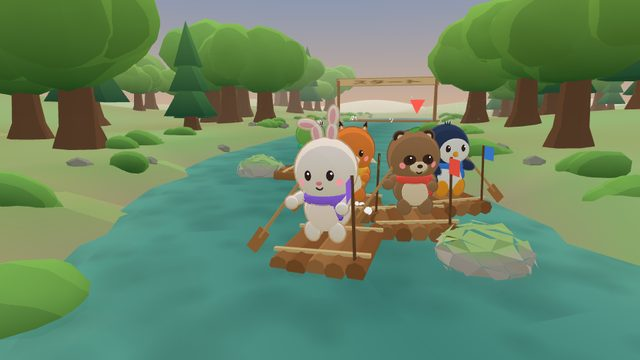
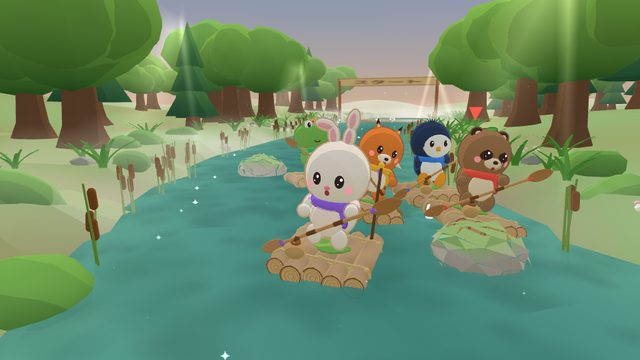
いかだレース: ゴールと盛り上げを作りこむ
- 水門の扉: いちばん前の子が近づくと、下流へ ぎいっと開く
- ビーバー: ダムの上で応援。だれかがゴールすると、とびはねて しっぽで水をたたく
- 紙ふぶき: 1位と自分がゴールしたとき、門の上から
- 順位の入れかわりを知らせる(「○○を ぬいた!」「○○に ぬかれた…」)
- のこり 45m で「ラストスパート!」と太鼓
- 自分がゴールしたあと、カメラが前へまわりこんで よろこぶ顔を見る
- 森の鳥の声
- 「おなじがわ!」は4回つづいたときだけ(曲がるときに わざと使うので)
- サムネイルを新しい いかだで撮りなおす

Claude-Session: https://claude.ai/code/session_01Cisc6eBGskeR7WZHkdup4y

diff --git a/src/games/ikada/game.js b/src/games/ikada/game.js
@@ -12,7 +12,7 @@ import { CHARACTERS, PLAYER_COLORS } from '../../characters.js';
 import { createModel, preload, toonGradient, toonMaterial } from '../../runtime/models.js';
 import { seedFrom } from '../../rng.js';
 import { RULES, STEP, createGame, ranking, step } from './rules.js';
-import { FALLS, LENGTH, LOGS, LOG_R, TUNNEL, WHIRLS, currentAt, logX } from './course.js';
+import { FALLS, LENGTH, LOGS, LOG_R, POND_END, TUNNEL, WHIRLS, currentAt, logX } from './course.js';
 import { PERSONALITIES, cpuInput, createCpu } from './cpu.js';
 import { SEATS, buildStage, coursePoint, courseHeading, seatPoint } from './stage.js';
 import { PADDLE_TIP, makePaddle, makeRaft, wakeTexture } from './raft.js';
@@ -86,6 +86,13 @@ export async function createIkada({ renderer, settings, getAudio, onExit }) {
     beep: (hi) => voice({ type: 'square', pts: [[0, hi ? 1046 : 523]], len: hi ? 0.4 : 0.15, gain: 0.06 }),
     fanfare: () => [784, 988, 1175, 1568].forEach((f, i) => voice({ type: 'triangle', pts: [[0, f]], len: 0.3 + i * 0.1, gain: 0.1, at: i * 0.13 })),
     finish: () => [659, 784].forEach((f, i) => voice({ type: 'triangle', pts: [[0, f]], len: 0.35, gain: 0.07, at: i * 0.16 })),
+    // ラストスパート: 太鼓
+    drums: () => { for (let i = 0; i < 8; i++) { voice({ type: 'sine', pts: [[0, i % 2 ? 110 : 90], [0.1, 55]], len: 0.16, gain: 0.12, at: i * 0.12 }); } voice({ type: 'triangle', pts: [[0, 523]], len: 0.3, gain: 0.06, at: 0.96 }); voice({ type: 'triangle', pts: [[0, 784]], len: 0.5, gain: 0.07, at: 1.08 }); },
+    pass: () => [880, 1175].forEach((f, i) => voice({ type: 'triangle', pts: [[0, f]], len: 0.14, gain: 0.06, at: i * 0.07 })),
+    passed: () => [440, 330].forEach((f, i) => voice({ type: 'triangle', pts: [[0, f]], len: 0.16, gain: 0.05, at: i * 0.09 })),
+    creak: () => { voice({ type: 'sawtooth', pts: [[0, 180], [0.6, 120]], len: 0.7, gain: 0.025 }); voice({ type: 'sawtooth', pts: [[0, 240], [0.5, 170]], len: 0.6, gain: 0.015, at: 0.1 }); },
+    slap: () => { hiss({ type: 'lowpass', f0: 2000, f1: 500, len: 0.25, gain: 0.08 }); voice({ type: 'sine', pts: [[0, 200], [0.08, 90]], len: 0.12, gain: 0.08 }); },
+    bird: () => { const f = 2300 + Math.random() * 1000; const n = 2 + Math.floor(Math.random() * 3); for (let i = 0; i < n; i++) voice({ type: 'sine', pts: [[0, f], [0.07, f * 1.25]], len: 0.09, gain: 0.016, at: i * 0.13 }); },
     cheer: (g = 0.05) => { for (let i = 0; i < 5; i++) hiss({ f0: 700 + i * 180, f1: 900 + i * 150, q: 4, len: 1.3, gain: g, at: i * 0.05, attack: 0.15 }); },
   };
   // 川の音: ずっと流れている(急流で大きく)
@@ -150,6 +157,120 @@ export async function createIkada({ renderer, settings, getAudio, onExit }) {
     scene.add(g);
     return { lg, g };
   });
+
+  // ── ビーバー: ダムの上で応援する2ひき。ゴールした子がいると、とびはねて しっぽで水をたたく ──────
+  function makeBeaver() {
+    const g = new THREE.Group();
+    const fur = toonMaterial(0x8a5a32), light = toonMaterial(0xc89a62), dark = toonMaterial(0x3a2414);
+    const body = new THREE.Mesh(new THREE.SphereGeometry(0.42, 14, 10), fur);
+    body.scale.set(1, 1.2, 0.9);
+    body.position.y = 0.5;
+    const belly = new THREE.Mesh(new THREE.SphereGeometry(0.32, 12, 8), light);
+    belly.scale.set(1, 1.2, 0.6);
+    belly.position.set(0, 0.45, 0.2);
+    const head = new THREE.Group();
+    head.position.y = 1.05;
+    const skull = new THREE.Mesh(new THREE.SphereGeometry(0.3, 14, 10), fur);
+    const muzzle = new THREE.Mesh(new THREE.SphereGeometry(0.16, 10, 8), light);
+    muzzle.scale.set(1.2, 0.8, 0.9);
+    muzzle.position.set(0, -0.06, 0.24);
+    const nose = new THREE.Mesh(new THREE.SphereGeometry(0.05, 8, 6), dark);
+    nose.position.set(0, 0.0, 0.37);
+    const teeth = new THREE.Mesh(new THREE.BoxGeometry(0.09, 0.09, 0.03), toonMaterial(0xfffaf0));
+    teeth.position.set(0, -0.15, 0.33);
+    head.add(skull, muzzle, nose, teeth);
+    for (const sd of [-1, 1]) {
+      const eye = new THREE.Mesh(new THREE.SphereGeometry(0.045, 8, 6), dark);
+      eye.position.set(sd * 0.12, 0.08, 0.25);
+      const ear = new THREE.Mesh(new THREE.SphereGeometry(0.07, 8, 6), fur);
+      ear.position.set(sd * 0.22, 0.22, 0);
+      head.add(eye, ear);
+    }
+    const arms = [-1, 1].map((sd) => {
+      const a = new THREE.Group();
+      a.position.set(sd * 0.36, 0.75, 0.12);
+      const m = new THREE.Mesh(new THREE.CapsuleGeometry(0.07, 0.22, 3, 6), fur);
+      m.position.y = -0.14;
+      a.add(m);
+      g.add(a);
+      return a;
+    });
+    const tail = new THREE.Group();
+    tail.position.set(0, 0.15, -0.35);
+    const paddle = new THREE.Mesh(new THREE.BoxGeometry(0.34, 0.06, 0.6), toonMaterial(0x4a3426));
+    paddle.position.z = -0.3;
+    tail.add(paddle);
+    g.add(body, belly, head, tail);
+    g.traverse((o) => { if (o.isMesh) o.castShadow = true; });
+    return { g, head, arms, tail, jump: 0, t: Math.random() * 6 };
+  }
+  const beavers = [-1, 1].map((sd) => {
+    const b = makeBeaver();
+    b.g.position.copy(coursePoint(POND_END + 0.4, sd * 1.6, 1.25));
+    b.g.rotation.y = courseHeading(POND_END).yaw + Math.PI; // 上流(ゴールのほう)を向く
+    scene.add(b.g);
+    return b;
+  });
+  function cheerBeavers() { for (const b of beavers) b.jump = 1.6; }
+  function updateBeavers(dt) {
+    for (const b of beavers) {
+      b.t += dt;
+      const j = b.jump > 0 ? Math.abs(Math.sin(b.t * 9)) * 0.35 : 0;
+      b.g.children[0].position.y = 0.5; // 体
+      b.g.position.y = coursePoint(POND_END + 0.4, 0, 1.25).y + j;
+      b.head.rotation.set(Math.sin(b.t * 1.7) * 0.08, Math.sin(b.t * 0.9) * 0.3, 0);
+      b.arms.forEach((a, k) => { a.rotation.z = (k ? -1 : 1) * (b.jump > 0 ? 2.4 + Math.sin(b.t * 12) * 0.3 : 0.2); });
+      // しっぽで水をたたく
+      const slap = b.jump > 0 ? Math.max(0, Math.sin(b.t * 9)) : Math.max(0, Math.sin(b.t * 1.3)) * 0.2;
+      b.tail.rotation.x = -0.2 - slap * 0.9;
+      if (b.jump > 0) {
+        b.jump -= dt;
+        if (Math.sin(b.t * 9) > 0.98 && Math.random() < 0.5) { spray(b.g.localToWorld(tmp.set(0, 0.1, -0.9)), 5, 1.4, 1); if (b.g.position.distanceTo(camera.position) < 30) sfx.slap(); }
+      }
+    }
+  }
+
+  // ── 紙ふぶき(葉っぱ色): ゴールの門の上から ふきだす ─────────────────
+  const CONF_N = 120;
+  const conf = new THREE.InstancedMesh(new THREE.PlaneGeometry(0.12, 0.08), new THREE.MeshBasicMaterial({ side: THREE.DoubleSide }), CONF_N);
+  conf.frustumCulled = false;
+  conf.count = 0;
+  scene.add(conf);
+  const confP = Array.from({ length: CONF_N }, () => ({ p: new THREE.Vector3(), v: new THREE.Vector3(), r: new THREE.Euler(), w: new THREE.Vector3(), t: 9 }));
+  const CONF_COLORS = [0xffd24a, 0xff6b5a, 0x6cc4ff, 0x8fdc6a, 0xff9ad5, 0xf3a24a].map((c) => new THREE.Color(c));
+  const confM = new THREE.Matrix4(), confQ = new THREE.Quaternion(), confS = new THREE.Vector3();
+  function confetti() {
+    const head = courseHeading(LENGTH);
+    confP.forEach((c, i) => {
+      c.t = 0;
+      c.p.copy(coursePoint(LENGTH, (i % 2 ? 1 : -1) * 3, 4.2));
+      const a = Math.random() * Math.PI * 2;
+      c.v.set(Math.cos(a) * 2.5 - Math.sin(head.th) * 1.5, 3 + Math.random() * 3.5, Math.sin(a) * 2.5 + Math.cos(head.th) * 1.5);
+      c.w.set(Math.random() * 10, Math.random() * 10, Math.random() * 10);
+      conf.setColorAt(i, CONF_COLORS[i % CONF_COLORS.length]);
+    });
+    conf.instanceColor.needsUpdate = true;
+    conf.count = CONF_N;
+  }
+  function updateConfetti(dt) {
+    if (!conf.count) return;
+    let alive = 0;
+    confP.forEach((c, i) => {
+      c.t += dt;
+      if (c.t < 4) alive++;
+      c.v.y = Math.max(-1.0, c.v.y - 9 * dt);
+      c.v.x *= 1 - dt * 1.1;
+      c.v.z *= 1 - dt * 1.1;
+      c.p.addScaledVector(c.v, dt);
+      c.p.x += Math.sin(c.t * 5 + i) * dt * 0.4;
+      c.r.set(c.r.x + c.w.x * dt, c.r.y + c.w.y * dt, c.r.z + c.w.z * dt);
+      confS.setScalar(c.t < 3.5 ? 1 : Math.max(0.001, (4 - c.t) / 0.5));
+      confM.compose(c.p, confQ.setFromEuler(c.r), confS);
+      conf.setMatrixAt(i, confM);
+    });
+    conf.instanceMatrix.needsUpdate = true;
+    if (!alive) conf.count = 0;
+  }
 
   // ── うずのあわ: 白いつぶが らせんに まわりながら、まん中へ吸いこまれる ─────────
   const FOAM_N = 36;
@@ -312,6 +433,9 @@ export async function createIkada({ renderer, settings, getAudio, onExit }) {
     atmosphere.sun.target.position.copy(coursePoint(LENGTH / 2, 0));
     atmosphere.setupShadows(runners.map((r) => r.holder), runners.map((r) => r.holder));
     taps.length = 0;
+    camera.userData.goalK = 0;
+    for (const d of stage.doors) { d.userData.open = 0; d.userData.opening = false; }
+    $('noticeK').classList.remove('show');
     $('comboK').textContent = '0';
     $('powK').style.width = '0%';
     buildBoard();
@@ -443,7 +567,9 @@ export async function createIkada({ renderer, settings, getAudio, onExit }) {
     // ことば(同じものは続けて出さない)
     g.fast = e.power < 0.45 && e.alt ? (g.fast || 0) + 1 : 0;
     let tip = null;
-    if (!e.alt && e.side !== 0) tip = ['おなじがわ! こうごに', 'warn'];
+    // 同じがわは 曲がるときに わざと使うので、4回つづいたときだけ(まちがえていそうなとき)
+    g.same = !e.alt && e.side !== 0 ? (g.same || 0) + 1 : 0;
+    if (g.same >= 4) { tip = ['おなじがわ! こうごに', 'warn']; g.same = 0; }
     else if (g.fast >= 3) { tip = ['はやすぎ! ぐいっと', 'warn']; g.fast = 0; }
     else if (g.combo > 0 && g.combo % 10 === 0) tip = [`いいリズム! ${g.combo}`, 'good'];
     if (tip && (tip[0] !== g.lastTip || now - (g.tipAt ?? -9) > 2.5)) showTip(...tip);
@@ -456,6 +582,51 @@ export async function createIkada({ renderer, settings, getAudio, onExit }) {
     el.classList.add('show');
     game.lastTip = text;
     game.tipAt = game.state.t;
+  }
+  function notice(text, cls) {
+    const el = $('noticeK');
+    el.textContent = text;
+    el.className = 'notice ' + cls;
+    void el.offsetWidth;
+    el.classList.add('show');
+  }
+  // レースの盛り上げ: 順位の入れかわり・ラストスパート・水門の扉・鳥の声
+  function updateRace(dt) {
+    const s = game.state;
+    const me = s.runners[0];
+    if (s.phase === 'race' && me.finish === null) {
+      const order = ranking(s);
+      const rank = order.indexOf(0);
+      if (game.lastRank === undefined) game.lastRank = rank;
+      // 入れかわってから 0.4 秒たっても そのままなら知らせる(ならんで押しあうと、行ったり来たりするので)
+      if (rank !== game.lastRank) {
+        game.rankHold = (game.rankHold || 0) + dt;
+        if (game.rankHold > 0.4 && s.t - (game.noticeAt ?? -9) > 1.2) {
+          if (rank < game.lastRank) { notice(`${game.players[order[rank + 1]]?.name ?? ''}を ぬいた! ${rank + 1}位`, 'up'); sfx.pass(); }
+          else { notice(`${game.players[order[rank - 1]]?.name ?? ''}に ぬかれた… ${rank + 1}位`, 'down'); sfx.passed(); }
+          game.lastRank = rank;
+          game.noticeAt = s.t;
+          game.rankHold = 0;
+        }
+      } else game.rankHold = 0;
+      // ラストスパート
+      if (!game.spurt && me.s > LENGTH - 45) {
+        game.spurt = true;
+        splash('ラストスパート!', 'gold');
+        sfx.drums();
+        for (const a of audience) { a.model.play('cheer'); a.model.setFace('happy'); a.until = 3; }
+      }
+    }
+    // 水門の扉: いちばん前の子が 20m まで来たら開く
+    const lead = Math.max(...s.runners.map((r) => r.s));
+    for (const d of stage.doors) {
+      const want = lead > LENGTH - 20 ? 1 : 0;
+      if (want && !d.userData.opening) { d.userData.opening = true; if (near(game.runners[0], 40)) sfx.creak(); }
+      d.userData.open += (want - d.userData.open) * Math.min(1, dt * 1.6);
+      d.children[0].rotation.y = -d.userData.side * 1.45 * d.userData.open;
+    }
+    // 森の鳥
+    if ((game.birdT = (game.birdT ?? 2) - dt) <= 0) { game.birdT = 3 + Math.random() * 6; sfx.bird(); }
   }
   function renderHud() {
     const s = game.state;
@@ -554,6 +725,8 @@ export async function createIkada({ renderer, settings, getAudio, onExit }) {
           for (const a of audience) { a.model.play('cheer'); a.model.setFace('happy'); a.until = 2; }
           sfx.cheer(e.slot === 0 ? 0.07 : 0.035);
           spray(tmp.copy(v.holder.position).setY(v.holder.position.y + 0.5), 10, 2);
+          cheerBeavers();
+          if (e.slot === 0 || s.runners.filter((o) => o.finish !== null).length === 1) confetti();
           owl.play('cheer');
           owlCheer = 2.5;
           break;
@@ -702,7 +875,13 @@ export async function createIkada({ renderer, settings, getAudio, onExit }) {
     const portrait = aspect < 1;
     const me = game ? game.state.runners[0] : { s: 0, x: 0, air: 0 };
     let pos, look;
-    if (game && (game.state.phase === 'finished' || mode === 'result')) {
+    if (game && me.finish !== null && game.state.phase !== 'finished' && mode === 'playing') {
+      // 自分がゴールしたあと: いかだの前へ ゆっくりまわりこんで、よろこぶ顔を見る
+      const k = camera.userData.goalK = Math.min(1, (camera.userData.goalK ?? 0) + dt * 0.5);
+      const a = 0.35 + k * Math.PI * 0.85; // うしろ(遊んでいたカメラ)から、前へ
+      pos = coursePoint(me.s - Math.cos(a) * 5.2, me.x + Math.sin(a) * 3.6, 2.5);
+      look = coursePoint(me.s, me.x, 0.9);
+    } else if (game && (game.state.phase === 'finished' || mode === 'result')) {
       const w = game.state.runners[game.state.winner];
       pos = coursePoint(Math.min(w.s, LENGTH + 18) + 6, w.x * 0.5, 2.4);
       look = coursePoint(Math.min(w.s, LENGTH + 18), w.x, 0.8);
@@ -788,6 +967,7 @@ export async function createIkada({ renderer, settings, getAudio, onExit }) {
         game.endTimer -= dt;
         if (game.endTimer <= 0) { game.endTimer = null; showResult(); }
       }
+      updateRace(dt);
       game.sprayT = Math.max(0, (game.sprayT || 0) - dt);
     }
     if (game && mode === 'playing') renderHud();
@@ -799,6 +979,8 @@ export async function createIkada({ renderer, settings, getAudio, onExit }) {
       // 水が流れる・うずが回る
       stage.water.map.offset.y -= dt * 0.5;
       updateFoam(dt);
+      updateBeavers(dt);
+      updateConfetti(dt);
       scenery.update(dt, camera);
       for (const a of audience) {
         if (a.until > 0 && (a.until -= dt) <= 0) { a.model.play('idle'); a.model.setFace('normal'); }

diff --git a/src/games/ikada/stage.js b/src/games/ikada/stage.js
@@ -547,6 +547,37 @@ function buildGoal(g) {
   g.add(gate);
 }
 
+// 水門の扉: 門の柱から まん中まで、板を組んだ扉が左右に1枚ずつ。いちばんの子が近づくと、下流へ ぎいっと開く
+function buildDoors(g) {
+  const hw = halfWidthAt(LENGTH);
+  const head = courseHeading(LENGTH);
+  const plank = toonMaterial(0x9a6a3e), frame = toonMaterial(0x6b4a30);
+  return [-1, 1].map((side) => {
+    const pivot = new THREE.Group();
+    pivot.position.copy(coursePoint(LENGTH, side * (hw + 0.25), 0));
+    pivot.rotation.y = head.yaw + Math.PI;
+    const door = new THREE.Group();
+    const w = hw + 0.2;
+    for (let k = 0; k < 4; k++) {
+      const b = new THREE.Mesh(new THREE.BoxGeometry(w, 0.26, 0.1), plank);
+      b.position.set(-side * w / 2, 0.15 + k * 0.29, 0);
+      door.add(b);
+    }
+    const brace = new THREE.Mesh(new THREE.BoxGeometry(w * 1.05, 0.1, 0.12), frame);
+    brace.rotation.z = side * 0.55;
+    brace.position.set(-side * w / 2, 0.6, 0.04);
+    door.add(brace);
+    const knob = new THREE.Mesh(new THREE.SphereGeometry(0.07, 8, 6), toonMaterial(0xffd24a));
+    knob.position.set(-side * (w - 0.15), 0.65, 0.08);
+    door.add(knob);
+    door.traverse((o) => { if (o.isMesh) o.castShadow = true; });
+    pivot.add(door);
+    pivot.userData = { side, open: 0 };
+    g.add(pivot);
+    return pivot;
+  });
+}
+
 // 観客の席: ゴールのわきの岸(切り株)
 export const SEATS = [
   { s: LENGTH - 6, x: -1, kind: 'risu' },
@@ -587,6 +618,7 @@ export function buildStage(scene) {
   // 動くもの(水面・うず)は、まとめたあとに足す
   const water = buildWater(g);
   const whirls = buildWhirls(g);
+  const doors = buildDoors(g);
   scene.add(g);
-  return { group: g, water, whirls };
+  return { group: g, water, whirls, doors };
 }

diff --git a/index.html b/index.html
@@ -772,6 +772,16 @@
   .rtip.good { color: #ffd24a; }
   .rtip.show { animation: rtip 1.4s ease-out forwards; }
   @keyframes rtip { 0% { opacity: 0; transform: translateY(8px) scale(.8); } 15% { opacity: 1; transform: none; } 75% { opacity: 1; } 100% { opacity: 0; transform: translateY(-6px); } }
+  /* 順位の入れかわり: 順位の下に、小さな札 */
+  .notice {
+    position: absolute; left: max(12px, env(safe-area-inset-left, 0px)); top: calc(env(safe-area-inset-top, 0px) + 62px);
+    padding: 3px 10px; border-radius: 999px; background: var(--hud-paper); box-shadow: 0 3px 0 rgba(31,42,51,.18);
+    font: 800 14px var(--font-body); color: var(--hud-ink); opacity: 0; pointer-events: none;
+  }
+  .notice.up { color: #c27a00; }
+  .notice.down { color: #6b7a84; }
+  .notice.show { animation: notice 1.6s ease-out forwards; }
+  @keyframes notice { 0% { opacity: 0; transform: translateX(-12px); } 12% { opacity: 1; transform: none; } 80% { opacity: 1; } 100% { opacity: 0; } }
   .pop.bang { color: #ffd24a; font-size: 30px; -webkit-text-stroke: 6px #5a3a1c; }
   .pop.don { color: #ff8a6a; font-size: 34px; -webkit-text-stroke: 6px #6a2a1c; }
   .sprayfx {
@@ -997,6 +1007,7 @@
     <button class="pausebtn" id="pauseBtnK" type="button" aria-label="いちじていし"><svg viewBox="0 0 20 20" aria-hidden="true"><rect x="5" y="4" width="3.4" height="12" rx="1.2"/><rect x="11.6" y="4" width="3.4" height="12" rx="1.2"/></svg></button>
   </div>
   <div class="progress" id="trackK"></div>
+  <div class="notice" id="noticeK"></div>
   <div class="pops" id="popsK"></div>
   <div class="splash" id="splashK"></div>
   <p class="howto" id="howtoK">左・右を こうごに たたいて こぐ</p>

diff --git a/sw.js b/sw.js
@@ -10,7 +10,7 @@
 // 版はファイルの中身から作るので、1つでも変われば sw.js が変わり、ブラウザが入れなおす。
 
 // <precache>
-const VERSION = 'cb3a7304bda6';
+const VERSION = 'd7c0679b9f8f';
 const PRECACHE = [
   "./",
   "./assets/thumbs/catch.jpg",

diff --git a/docs/minigames/ikada.md b/docs/minigames/ikada.md
@@ -44,6 +44,18 @@
   落ちたら「ざぶーん!」・大きなしぶき・画面に水しぶき。
 - 体当たり: 当たったところに「ドン!」・しぶき・波紋。当てられたほうが大きく ぐらっとゆれる。2人ともおどろいた顔。
 
+## ゴールと盛り上げ
+
+- 水門の扉: 門の柱から まん中まで、板の扉が左右に1枚ずつ。いちばん前の子が 20m まで来ると、下流へ ぎいっと開く。
+- ビーバー: ダムの上で2ひきが応援。だれかがゴールすると とびはねて、しっぽで水をたたく(しぶき)。
+- 紙ふぶき: 1位がゴールしたときと、自分がゴールしたときに、門の上から ふきだす。
+- 順位の入れかわり: 「○○を ぬいた! 2位」「○○に ぬかれた… 3位」(順位の下に小さな札)。
+  ならんで押しあうと行ったり来たりするので、0.4 秒そのままだったときだけ知らせる。
+- ラストスパート: のこり 45m で「ラストスパート!」と太鼓、観客がよろこぶ。
+- 自分がゴールしたあと: カメラが いかだのうしろから前へ ゆっくりまわりこんで、よろこぶ顔を見る。
+- ずっと: 川の音(急流で大きく)と、ときどき森の鳥。
+- 「おなじがわ! こうごに」は、同じがわが 4回つづいたときだけ(曲がるときに わざと使うので)。
+
 ## 動かし方
 
 - 画面の左半分・右半分を **こうごに** たたく(パソコンは ← → / A D。押しっぱなしは数えない)。
